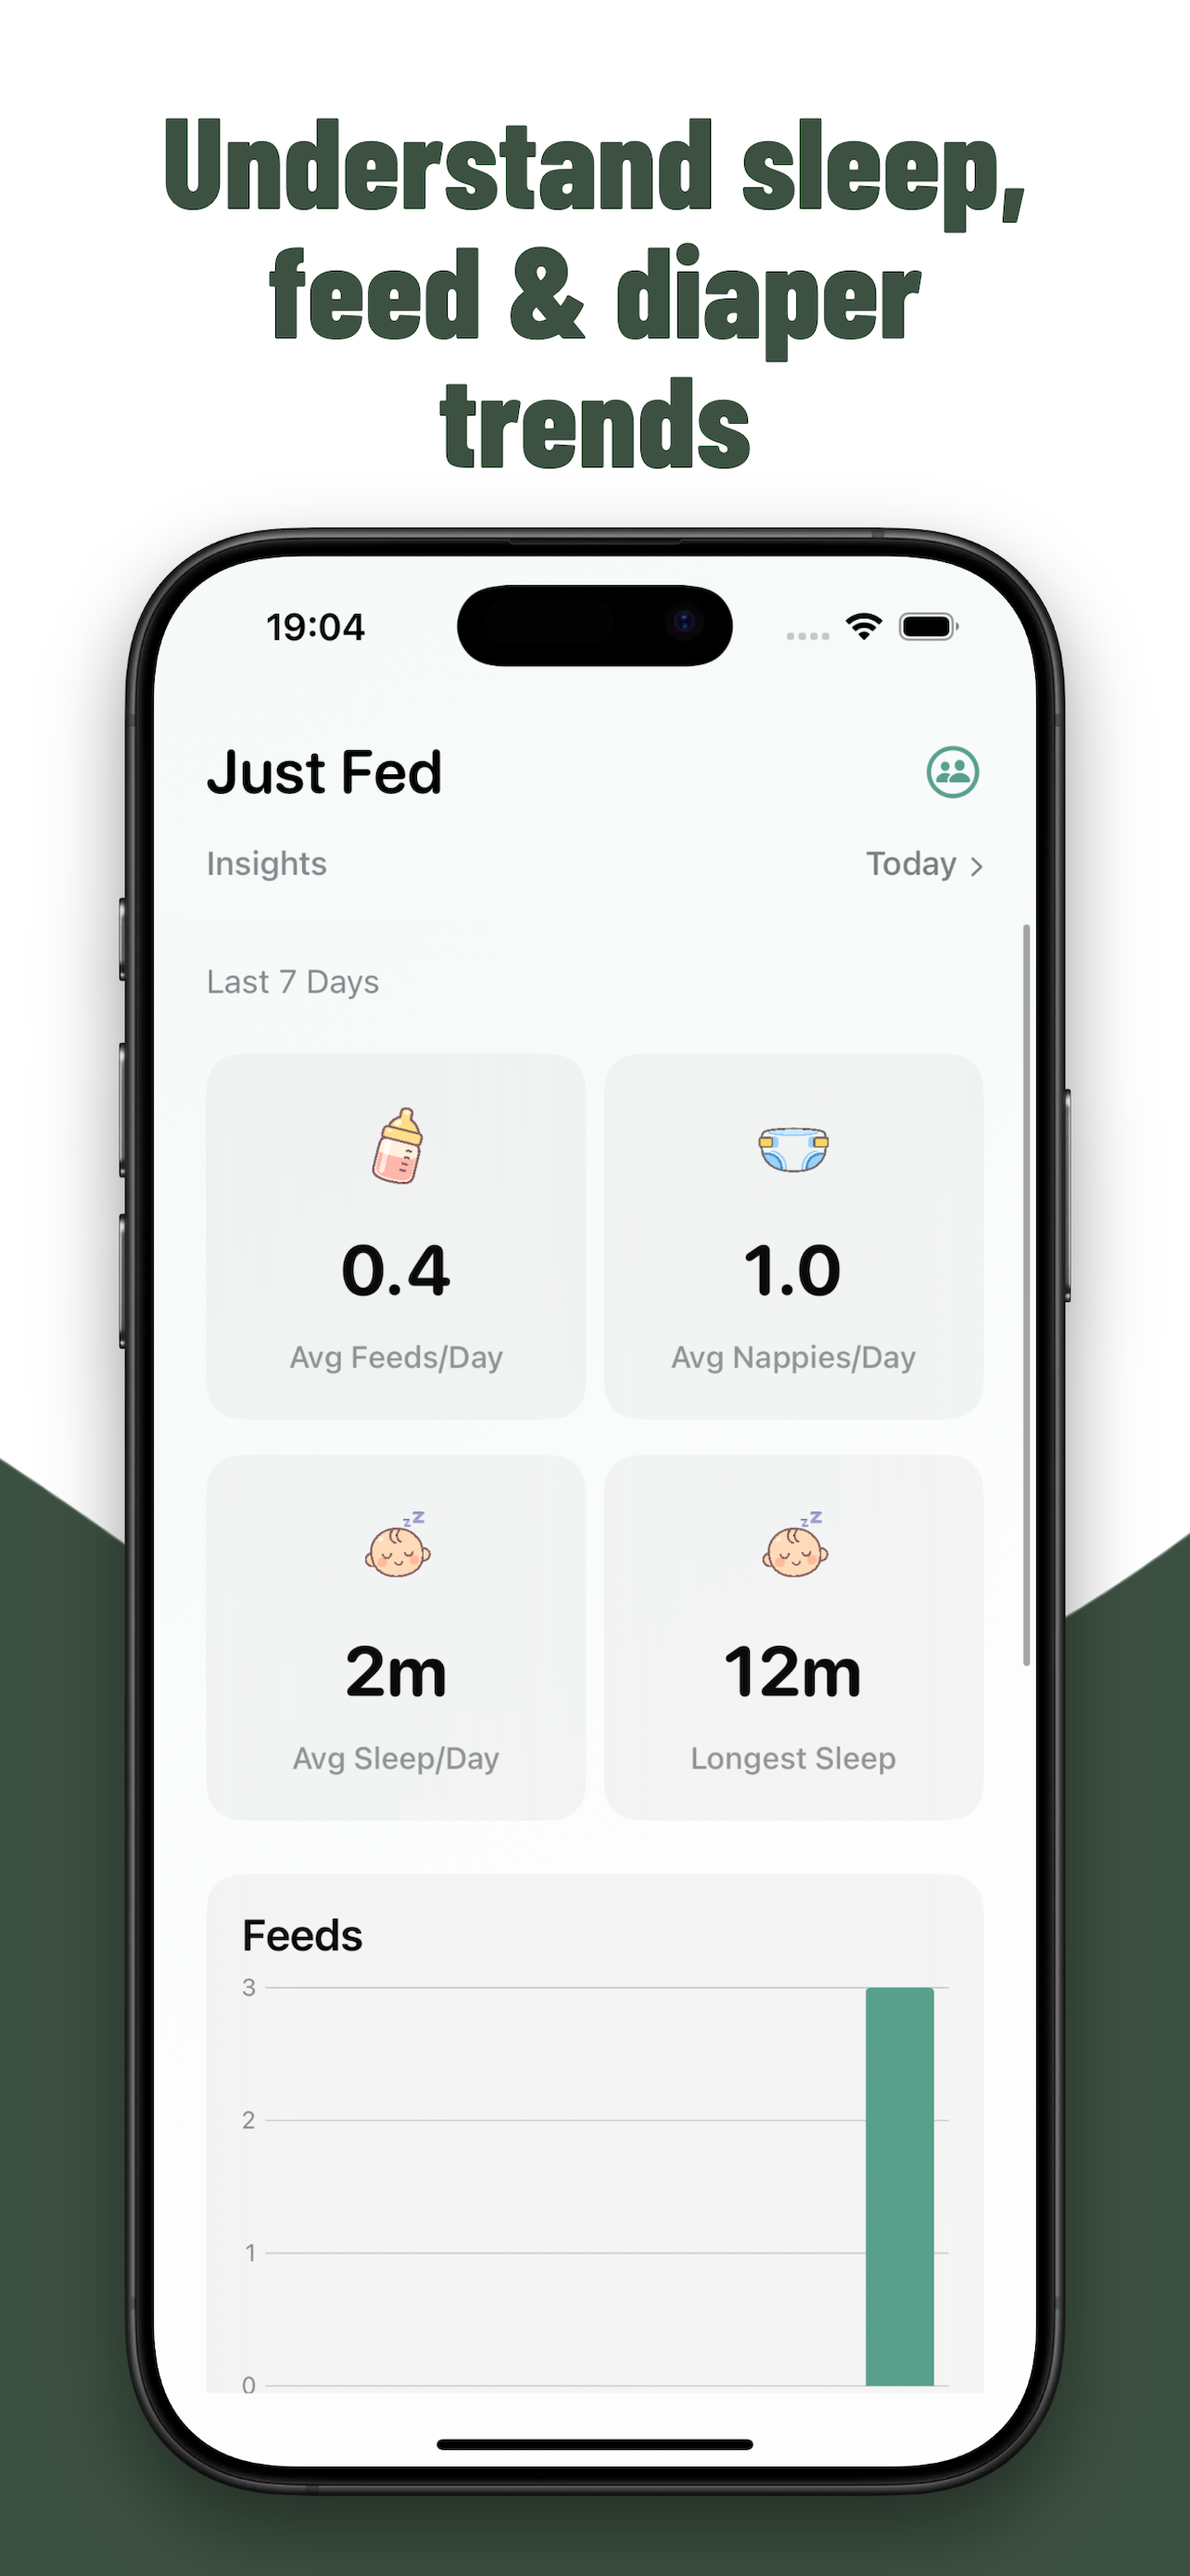
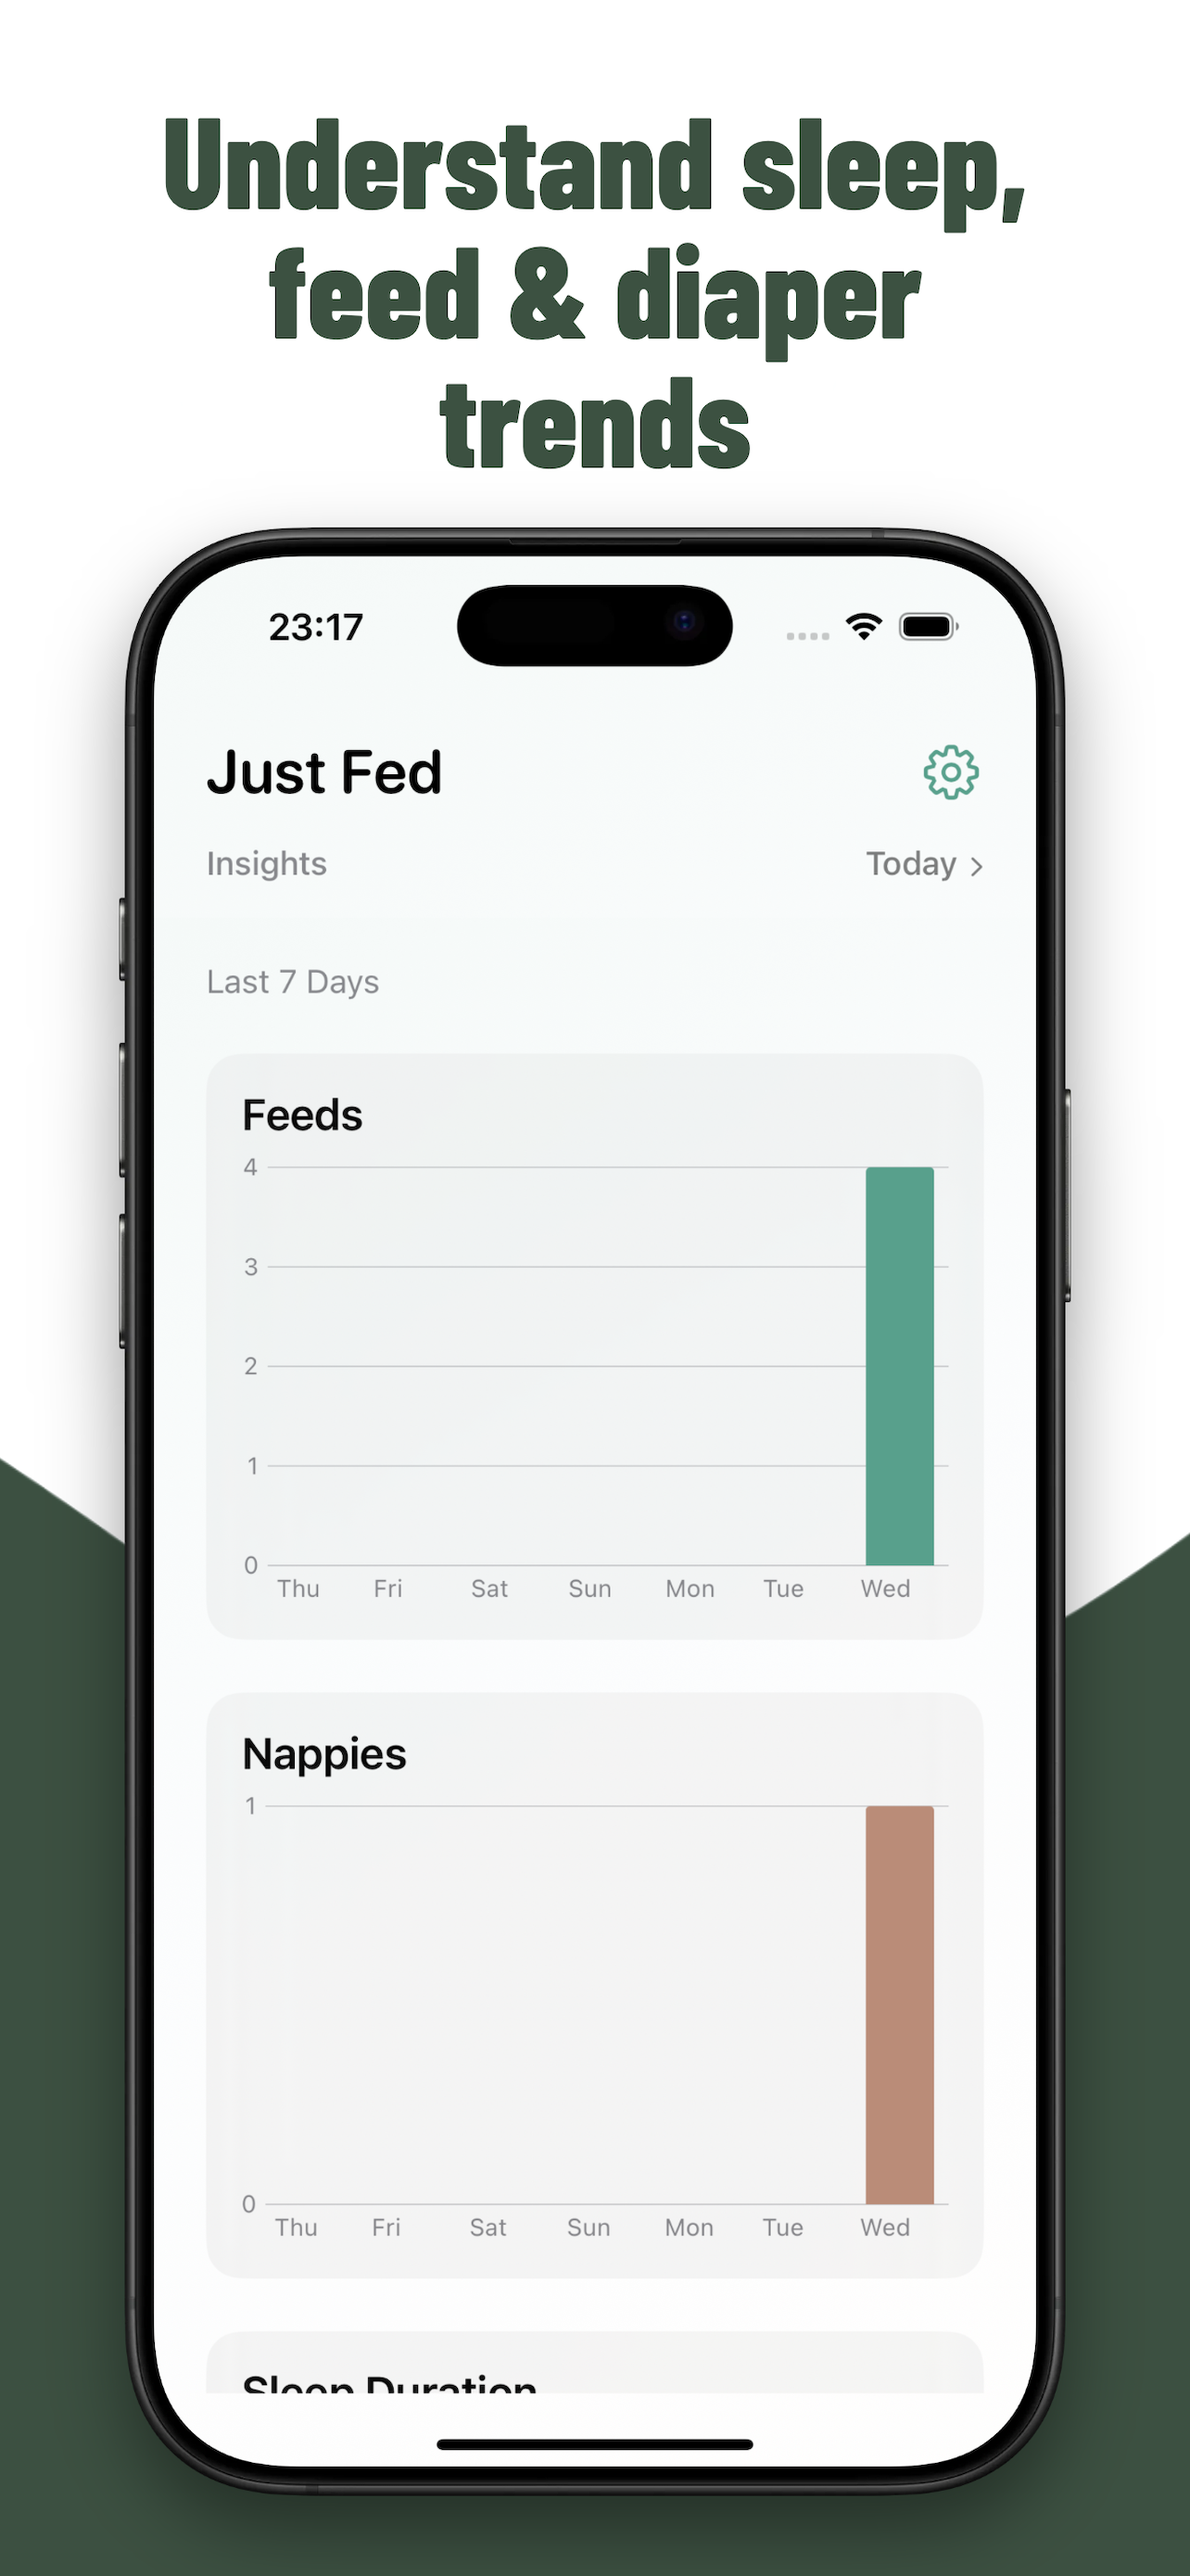
update privacy policy

diff --git a/privacy.html b/privacy.html
@@ -179,7 +179,7 @@
                 <h1 class="text-5xl md:text-6xl font-black text-dark-green mb-6 leading-tight">
                     Privacy <span class="gradient-text">Policy</span>
                 </h1>
-                <p class="text-xl text-gray-500 font-light">Last updated: December 27, 2025</p>
+                <p class="text-xl text-gray-500 font-light">Last updated: January 28, 2026</p>
             </div>
 
             <!-- Introduction -->
@@ -259,7 +259,7 @@
                             <svg class="w-6 h-6 text-primary flex-shrink-0 mt-0.5" fill="none" stroke="currentColor" viewBox="0 0 24 24">
                                 <path stroke-linecap="round" stroke-linejoin="round" stroke-width="2" d="M9 5l7 7-7 7"></path>
                             </svg>
-                            <span class="text-lg text-gray-600 leading-relaxed">Your data never leaves your device unless you choose to enable sharing</span>
+                            <span class="text-lg text-gray-600 leading-relaxed">Your data never leaves your device</span>
                         </li>
                         <li class="flex items-start gap-3">
                             <svg class="w-6 h-6 text-primary flex-shrink-0 mt-0.5" fill="none" stroke="currentColor" viewBox="0 0 24 24">
@@ -271,63 +271,9 @@
                             <svg class="w-6 h-6 text-primary flex-shrink-0 mt-0.5" fill="none" stroke="currentColor" viewBox="0 0 24 24">
                                 <path stroke-linecap="round" stroke-linejoin="round" stroke-width="2" d="M9 5l7 7-7 7"></path>
                             </svg>
-                            <span class="text-lg text-gray-600 leading-relaxed">Deleting the app removes all local data from your device</span>
+                            <span class="text-lg text-gray-600 leading-relaxed">Deleting the app removes all data from your device</span>
                         </li>
                     </ul>
-                </div>
-            </div>
-
-            <!-- Sharing with PIN -->
-            <div class="mb-16 scroll-reveal">
-                <div class="bg-white rounded-3xl p-8 md:p-10 shadow-lg border border-gray-100">
-                    <h2 class="text-3xl md:text-4xl font-bold text-dark-green mb-6">Sharing Between Devices</h2>
-                    <p class="text-lg text-gray-600 leading-relaxed mb-6">
-                        If you choose to enable sharing, JustFed allows you to sync your logs across multiple devices
-                        using a unique PIN. Here's how it works:
-                    </p>
-                    <ul class="space-y-4 mb-6">
-                        <li class="flex items-start gap-3">
-                            <svg class="w-6 h-6 text-primary flex-shrink-0 mt-0.5" fill="none" stroke="currentColor" viewBox="0 0 24 24">
-                                <path stroke-linecap="round" stroke-linejoin="round" stroke-width="2" d="M9 5l7 7-7 7"></path>
-                            </svg>
-                            <span class="text-lg text-gray-600 leading-relaxed">You must explicitly enable sharing—it's not automatic</span>
-                        </li>
-                        <li class="flex items-start gap-3">
-                            <svg class="w-6 h-6 text-primary flex-shrink-0 mt-0.5" fill="none" stroke="currentColor" viewBox="0 0 24 24">
-                                <path stroke-linecap="round" stroke-linejoin="round" stroke-width="2" d="M9 5l7 7-7 7"></path>
-                            </svg>
-                            <span class="text-lg text-gray-600 leading-relaxed">When enabled, a unique PIN is generated for your devices to connect</span>
-                        </li>
-                        <li class="flex items-start gap-3">
-                            <svg class="w-6 h-6 text-primary flex-shrink-0 mt-0.5" fill="none" stroke="currentColor" viewBox="0 0 24 24">
-                                <path stroke-linecap="round" stroke-linejoin="round" stroke-width="2" d="M9 5l7 7-7 7"></path>
-                            </svg>
-                            <span class="text-lg text-gray-600 leading-relaxed">Only your activity logs (feeds, sleep, nappies) are stored in our database when sharing is enabled</span>
-                        </li>
-                        <li class="flex items-start gap-3">
-                            <svg class="w-6 h-6 text-primary flex-shrink-0 mt-0.5" fill="none" stroke="currentColor" viewBox="0 0 24 24">
-                                <path stroke-linecap="round" stroke-linejoin="round" stroke-width="2" d="M9 5l7 7-7 7"></path>
-                            </svg>
-                            <span class="text-lg text-gray-600 leading-relaxed"><span class="font-semibold text-dark-green">No personal or user data</span> is stored—only the activity logs themselves</span>
-                        </li>
-                        <li class="flex items-start gap-3">
-                            <svg class="w-6 h-6 text-primary flex-shrink-0 mt-0.5" fill="none" stroke="currentColor" viewBox="0 0 24 24">
-                                <path stroke-linecap="round" stroke-linejoin="round" stroke-width="2" d="M9 5l7 7-7 7"></path>
-                            </svg>
-                            <span class="text-lg text-gray-600 leading-relaxed">Data is stored securely using Supabase infrastructure</span>
-                        </li>
-                        <li class="flex items-start gap-3">
-                            <svg class="w-6 h-6 text-primary flex-shrink-0 mt-0.5" fill="none" stroke="currentColor" viewBox="0 0 24 24">
-                                <path stroke-linecap="round" stroke-linejoin="round" stroke-width="2" d="M9 5l7 7-7 7"></path>
-                            </svg>
-                            <span class="text-lg text-gray-600 leading-relaxed">You can disable sharing at any time to stop syncing</span>
-                        </li>
-                    </ul>
-                    <p class="text-lg text-gray-600 leading-relaxed">
-                        We use Supabase as our backend infrastructure for sharing functionality. Supabase is a trusted,
-                        secure platform for data storage. You can learn more about their security practices at
-                        <a href="https://supabase.com/security" target="_blank" class="text-primary hover:text-primary-dark underline font-medium">Supabase Security</a>.
-                    </p>
                 </div>
             </div>
 
@@ -336,9 +282,8 @@
                 <div class="bg-white rounded-3xl p-8 md:p-10 shadow-lg border border-gray-100">
                     <h2 class="text-3xl md:text-4xl font-bold text-dark-green mb-6">Data Security</h2>
                     <p class="text-lg text-gray-600 leading-relaxed">
-                        Your data on your device is protected by iOS's built-in security features. When sharing is enabled,
-                        your activity logs are securely stored using Supabase infrastructure with industry-standard encryption.
-                        No personal or identifying information is ever transmitted or stored.
+                        Your data on your device is protected by iOS's built-in security features. All your activity logs
+                        remain stored locally on your device. No personal or identifying information is ever transmitted or stored.
                     </p>
                 </div>
             </div>
@@ -361,13 +306,7 @@
                             <svg class="w-6 h-6 text-primary flex-shrink-0 mt-0.5" fill="none" stroke="currentColor" viewBox="0 0 24 24">
                                 <path stroke-linecap="round" stroke-linejoin="round" stroke-width="2" d="M9 5l7 7-7 7"></path>
                             </svg>
-                            <span class="text-lg text-gray-600 leading-relaxed">You can disable sharing at any time to stop syncing</span>
-                        </li>
-                        <li class="flex items-start gap-3">
-                            <svg class="w-6 h-6 text-primary flex-shrink-0 mt-0.5" fill="none" stroke="currentColor" viewBox="0 0 24 24">
-                                <path stroke-linecap="round" stroke-linejoin="round" stroke-width="2" d="M9 5l7 7-7 7"></path>
-                            </svg>
-                            <span class="text-lg text-gray-600 leading-relaxed">Deleting the app removes all local data from your device</span>
+                            <span class="text-lg text-gray-600 leading-relaxed">Deleting the app removes all data from your device</span>
                         </li>
                     </ul>
                 </div>
@@ -390,8 +329,8 @@
                 <div class="bg-white rounded-3xl p-8 md:p-10 shadow-lg border border-gray-100">
                     <h2 class="text-3xl md:text-4xl font-bold text-dark-green mb-6">Third-Party Services</h2>
                     <p class="text-lg text-gray-600 leading-relaxed">
-                        The only third-party service we use is Supabase for optional data syncing when sharing is enabled.
-                        We do not integrate with any analytics services, advertising networks, or other third-party tracking tools.
+                        JustFed does not use any third-party services. We do not integrate with any analytics services,
+                        advertising networks, or other third-party tracking tools.
                     </p>
                 </div>
             </div>

diff --git a/index.html b/index.html
@@ -4,7 +4,7 @@
     <meta charset="UTF-8">
     <meta name="viewport" content="width=device-width, initial-scale=1.0">
     <title>JustFed - Track Your Baby's Journey with Ease</title>
-    <meta name="description" content="Track your baby's feeds, sleep, and nappies easily. Pair with your partner for real-time sync. Privacy-first baby tracking app.">
+    <meta name="description" content="Track your baby's feeds, sleep, and nappies easily. Privacy-first baby tracking app.">
     <script src="https://cdn.tailwindcss.com"></script>
     <script>
         tailwind.config = {
@@ -405,9 +405,9 @@
                 </div>
                 <div class="flex items-center gap-2">
                     <svg class="w-5 h-5 text-primary" fill="none" stroke="currentColor" viewBox="0 0 24 24">
-                        <path stroke-linecap="round" stroke-linejoin="round" stroke-width="2" d="M17 20h5v-2a3 3 0 00-5.356-1.857M17 20H7m10 0v-2c0-.656-.126-1.283-.356-1.857m0 0a5.002 5.002 0 019.288 0M15 7a3 3 0 11-6 0 3 3 0 016 0zm6 3a2 2 0 11-4 0 2 2 0 014 0zM7 10a2 2 0 11-4 0 2 2 0 014 0z"></path>
+                        <path stroke-linecap="round" stroke-linejoin="round" stroke-width="2" d="M12 18h.01M8 21h8a2 2 0 002-2V5a2 2 0 00-2-2H8a2 2 0 00-2 2v14a2 2 0 002 2z"></path>
                     </svg>
-                    <span class="font-medium">Real-time sync</span>
+                    <span class="font-medium">Works offline</span>
                 </div>
             </div>
         </div>
@@ -461,20 +461,6 @@
                     <div class="feature-item flex items-start space-x-5 p-6 rounded-2xl hover:bg-white/50 transition-all duration-300 group cursor-pointer">
                         <div class="flex-shrink-0 feature-icon w-14 h-14 bg-gradient-to-br from-primary/20 to-primary/10 rounded-2xl flex items-center justify-center ring-2 ring-primary/20">
                             <svg class="w-7 h-7 text-primary" fill="none" stroke="currentColor" viewBox="0 0 24 24">
-                                <path stroke-linecap="round" stroke-linejoin="round" stroke-width="2" d="M17 20h5v-2a3 3 0 00-5.356-1.857M17 20H7m10 0v-2c0-.656-.126-1.283-.356-1.857m0 0a5.002 5.002 0 019.288 0M15 7a3 3 0 11-6 0 3 3 0 016 0zm6 3a2 2 0 11-4 0 2 2 0 014 0zM7 10a2 2 0 11-4 0 2 2 0 014 0z"></path>
-                            </svg>
-                        </div>
-                        <div class="flex-1">
-                            <h3 class="text-2xl font-bold text-dark-green mb-2 group-hover:text-primary transition-colors">Share with ease</h3>
-                            <p class="text-gray-600 leading-relaxed text-lg">
-                                Share your logs across devices with a simple PIN. Stay in sync with your partner effortlessly.
-                            </p>
-                        </div>
-                    </div>
-
-                    <div class="feature-item flex items-start space-x-5 p-6 rounded-2xl hover:bg-white/50 transition-all duration-300 group cursor-pointer">
-                        <div class="flex-shrink-0 feature-icon w-14 h-14 bg-gradient-to-br from-primary/20 to-primary/10 rounded-2xl flex items-center justify-center ring-2 ring-primary/20">
-                            <svg class="w-7 h-7 text-primary" fill="none" stroke="currentColor" viewBox="0 0 24 24">
                                 <path stroke-linecap="round" stroke-linejoin="round" stroke-width="2" d="M9 19v-6a2 2 0 00-2-2H5a2 2 0 00-2 2v6a2 2 0 002 2h2a2 2 0 002-2zm0 0V9a2 2 0 012-2h2a2 2 0 012 2v10m-6 0a2 2 0 002 2h2a2 2 0 002-2m0 0V5a2 2 0 012-2h2a2 2 0 012 2v14a2 2 0 01-2 2h-2a2 2 0 01-2-2z"></path>
                             </svg>
                         </div>
@@ -495,7 +481,7 @@
                         <div class="flex-1">
                             <h3 class="text-2xl font-bold text-dark-green mb-2 group-hover:text-primary transition-colors">Your data stays yours</h3>
                             <p class="text-gray-600 leading-relaxed text-lg">
-                                Zero tracking. Zero ads. No personal data stored. Everything stays on your device unless you enable sharing.
+                                Zero tracking. Zero ads. No personal data stored. Everything stays on your device.
                             </p>
                         </div>
                     </div>
@@ -535,9 +521,6 @@
                                     <img src="img/insights.png" alt="7-day insights" class="w-full">
                                 </div>
                                 <div class="carousel-slide min-w-full">
-                                    <img src="img/pair.png" alt="Partner pairing" class="w-full">
-                                </div>
-                                <div class="carousel-slide min-w-full">
                                     <img src="img/dynamic.png" alt="Live Activity" class="w-full">
                                 </div>
                             </div>
@@ -549,7 +532,6 @@
                             <button class="carousel-dot w-3 h-3 rounded-full bg-gray-300 transition-all hover:bg-gray-400 shadow-sm" data-slide="1"></button>
                             <button class="carousel-dot w-3 h-3 rounded-full bg-gray-300 transition-all hover:bg-gray-400 shadow-sm" data-slide="2"></button>
                             <button class="carousel-dot w-3 h-3 rounded-full bg-gray-300 transition-all hover:bg-gray-400 shadow-sm" data-slide="3"></button>
-                            <button class="carousel-dot w-3 h-3 rounded-full bg-gray-300 transition-all hover:bg-gray-400 shadow-sm" data-slide="4"></button>
                         </div>
                     </div>
                 </div>
